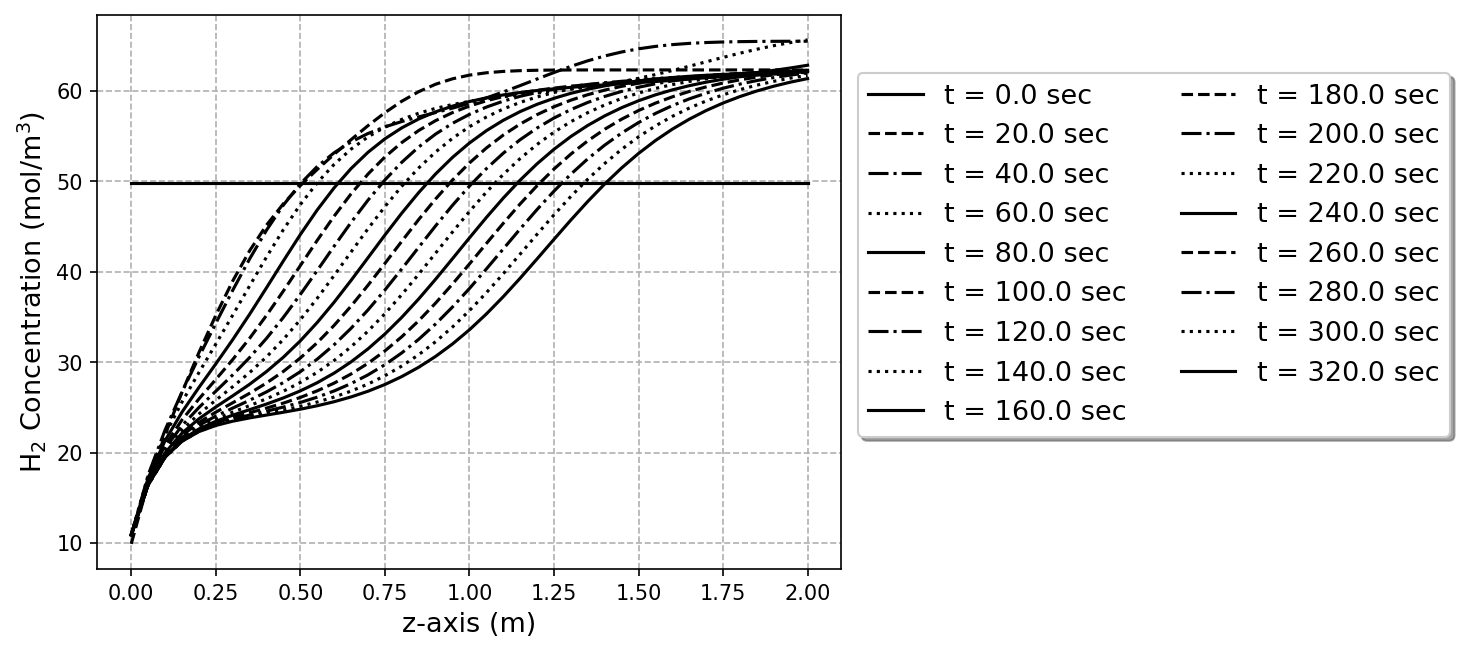
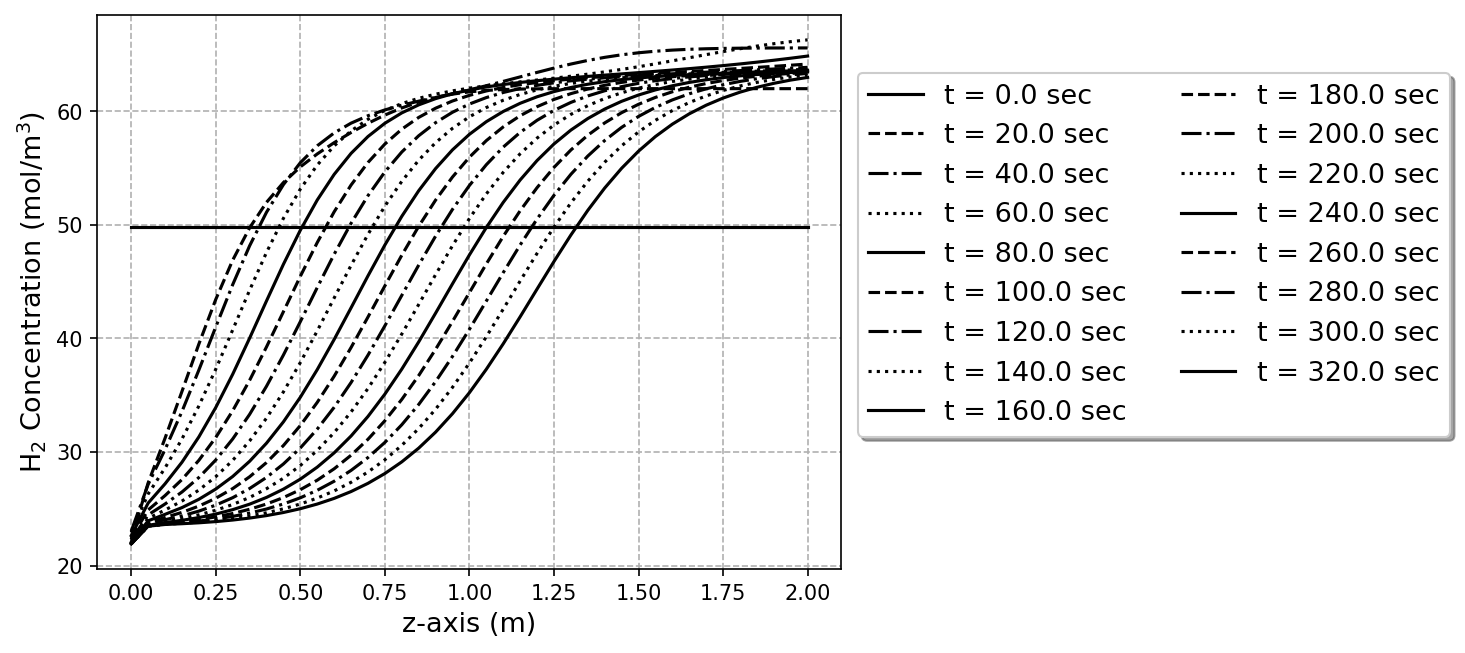
SE-WGS reactor modeling test

diff --git a/SE_model/column_v04_rxn_const_WGS.py b/SE_model/column_v04_rxn_const_WGS.py
@@ -4,6 +4,15 @@ import numpy as np
 from scipy.integrate import odeint
 import matplotlib.pyplot as plt
 # %%
+# Reaction parameters
+# %%
+T_g  = 773 # K # Temperature (400 oC)
+T_init = 773
+K_eq = 10**(-2.4198 + 0.0003855*T_g + 2180.6/T_g) # Equilibrium constant
+k_r1 = 0.1 # (mol/m^3/s/bar^2) r1 = k_r1*P2*P3
+k_r2 = k_r1/K_eq # (mol/m^3/s/bar^2) r2 = k_r2*P1*P4
+
+# %%
 # Spatial setting for z-axis
 # %%
 # Number of spatial node
@@ -105,7 +114,7 @@ def iso(P1,P2,P3,P4):
 # %%
 # Initial P, T, C1, C2, q1, q2, y0
 P_init = 3.2E5*np.ones([N,])    # (Pa)
-T_init = 773
+#T_init = 773
 R_gas = 8.3145
 # Gas phase
 C1_init = 1.0*P_init/R_gas/T_init*np.ones([N,]) # H2
@@ -123,7 +132,6 @@ q1_init, q2_init, q3_init, q4_init = iso(P1_init*1E-5, P2_init*1E-5,
                                          P3_init*1E-5, P4_init*1E-5,)
 y0 = np.concatenate([C1_init, C2_init, C3_init, C4_init,
                     q1_init, q2_init, q3_init, q4_init])
-
 # %%
 # Boundary Conditions
 # %%
@@ -131,7 +139,6 @@ y0 = np.concatenate([C1_init, C2_init, C3_init, C4_init,
 P_end = 3.0       # (bar)
 Cv_out = 2E-2 
 u_feed = 0.05
-
 P_feed = 4.5    # (bar)
 
 # Inlet conditions
@@ -140,14 +147,13 @@ C1_feed = 0.0*P_feed*1E5/R_gas/T_feed # H2  (prod)
 C2_feed = 0.5*P_feed*1E5/R_gas/T_feed # CO  (reac)
 C3_feed = 0.5*P_feed*1E5/R_gas/T_feed # H2O (reac)
 C4_feed = 0.0*P_feed*1E5/R_gas/T_feed # CO2 (prod)
-
 # %%
 # Model for odeint
 # %%
 # Additional parameters
 D_AB = 1E-8
 h = h_arr[0]
-T_g = T_init
+#T_g = T_init
 #u_g = 0.01      # (m/s) : advective velocity
 
 rho_s = 1000    # (kg/m^3)
@@ -164,9 +170,9 @@ Mw_gas = np.array([2, 28, 18, 44])*1E-3 # (kg/mol) : molar weight for each compo
 # %%
 # Reaction kinetics
 # %%
-K_eq = 10**(-2.4198 + 0.0003855*T_g + 2180.6/T_g) # Equilibrium constant
-k_r1 = 0.01 # (mol/m^3/s/bar^2) r1 = k_r1*P2*P3
-k_r2 = k_r1/K_eq # (mol/m^3/s/bar^2) r2 = k_r2*P1*P4
+#K_eq = 10**(-2.4198 + 0.0003855*T_g + 2180.6/T_g) # Equilibrium constant
+#k_r1 = 0.02 # (mol/m^3/s/bar^2) r1 = k_r1*P2*P3
+#k_r2 = k_r1/K_eq # (mol/m^3/s/bar^2) r2 = k_r2*P1*P4
 
 # Backflow at z = L 
 C1_L = 1.0*P_end*1E5/R_gas/T_g  # H2 (prod)
